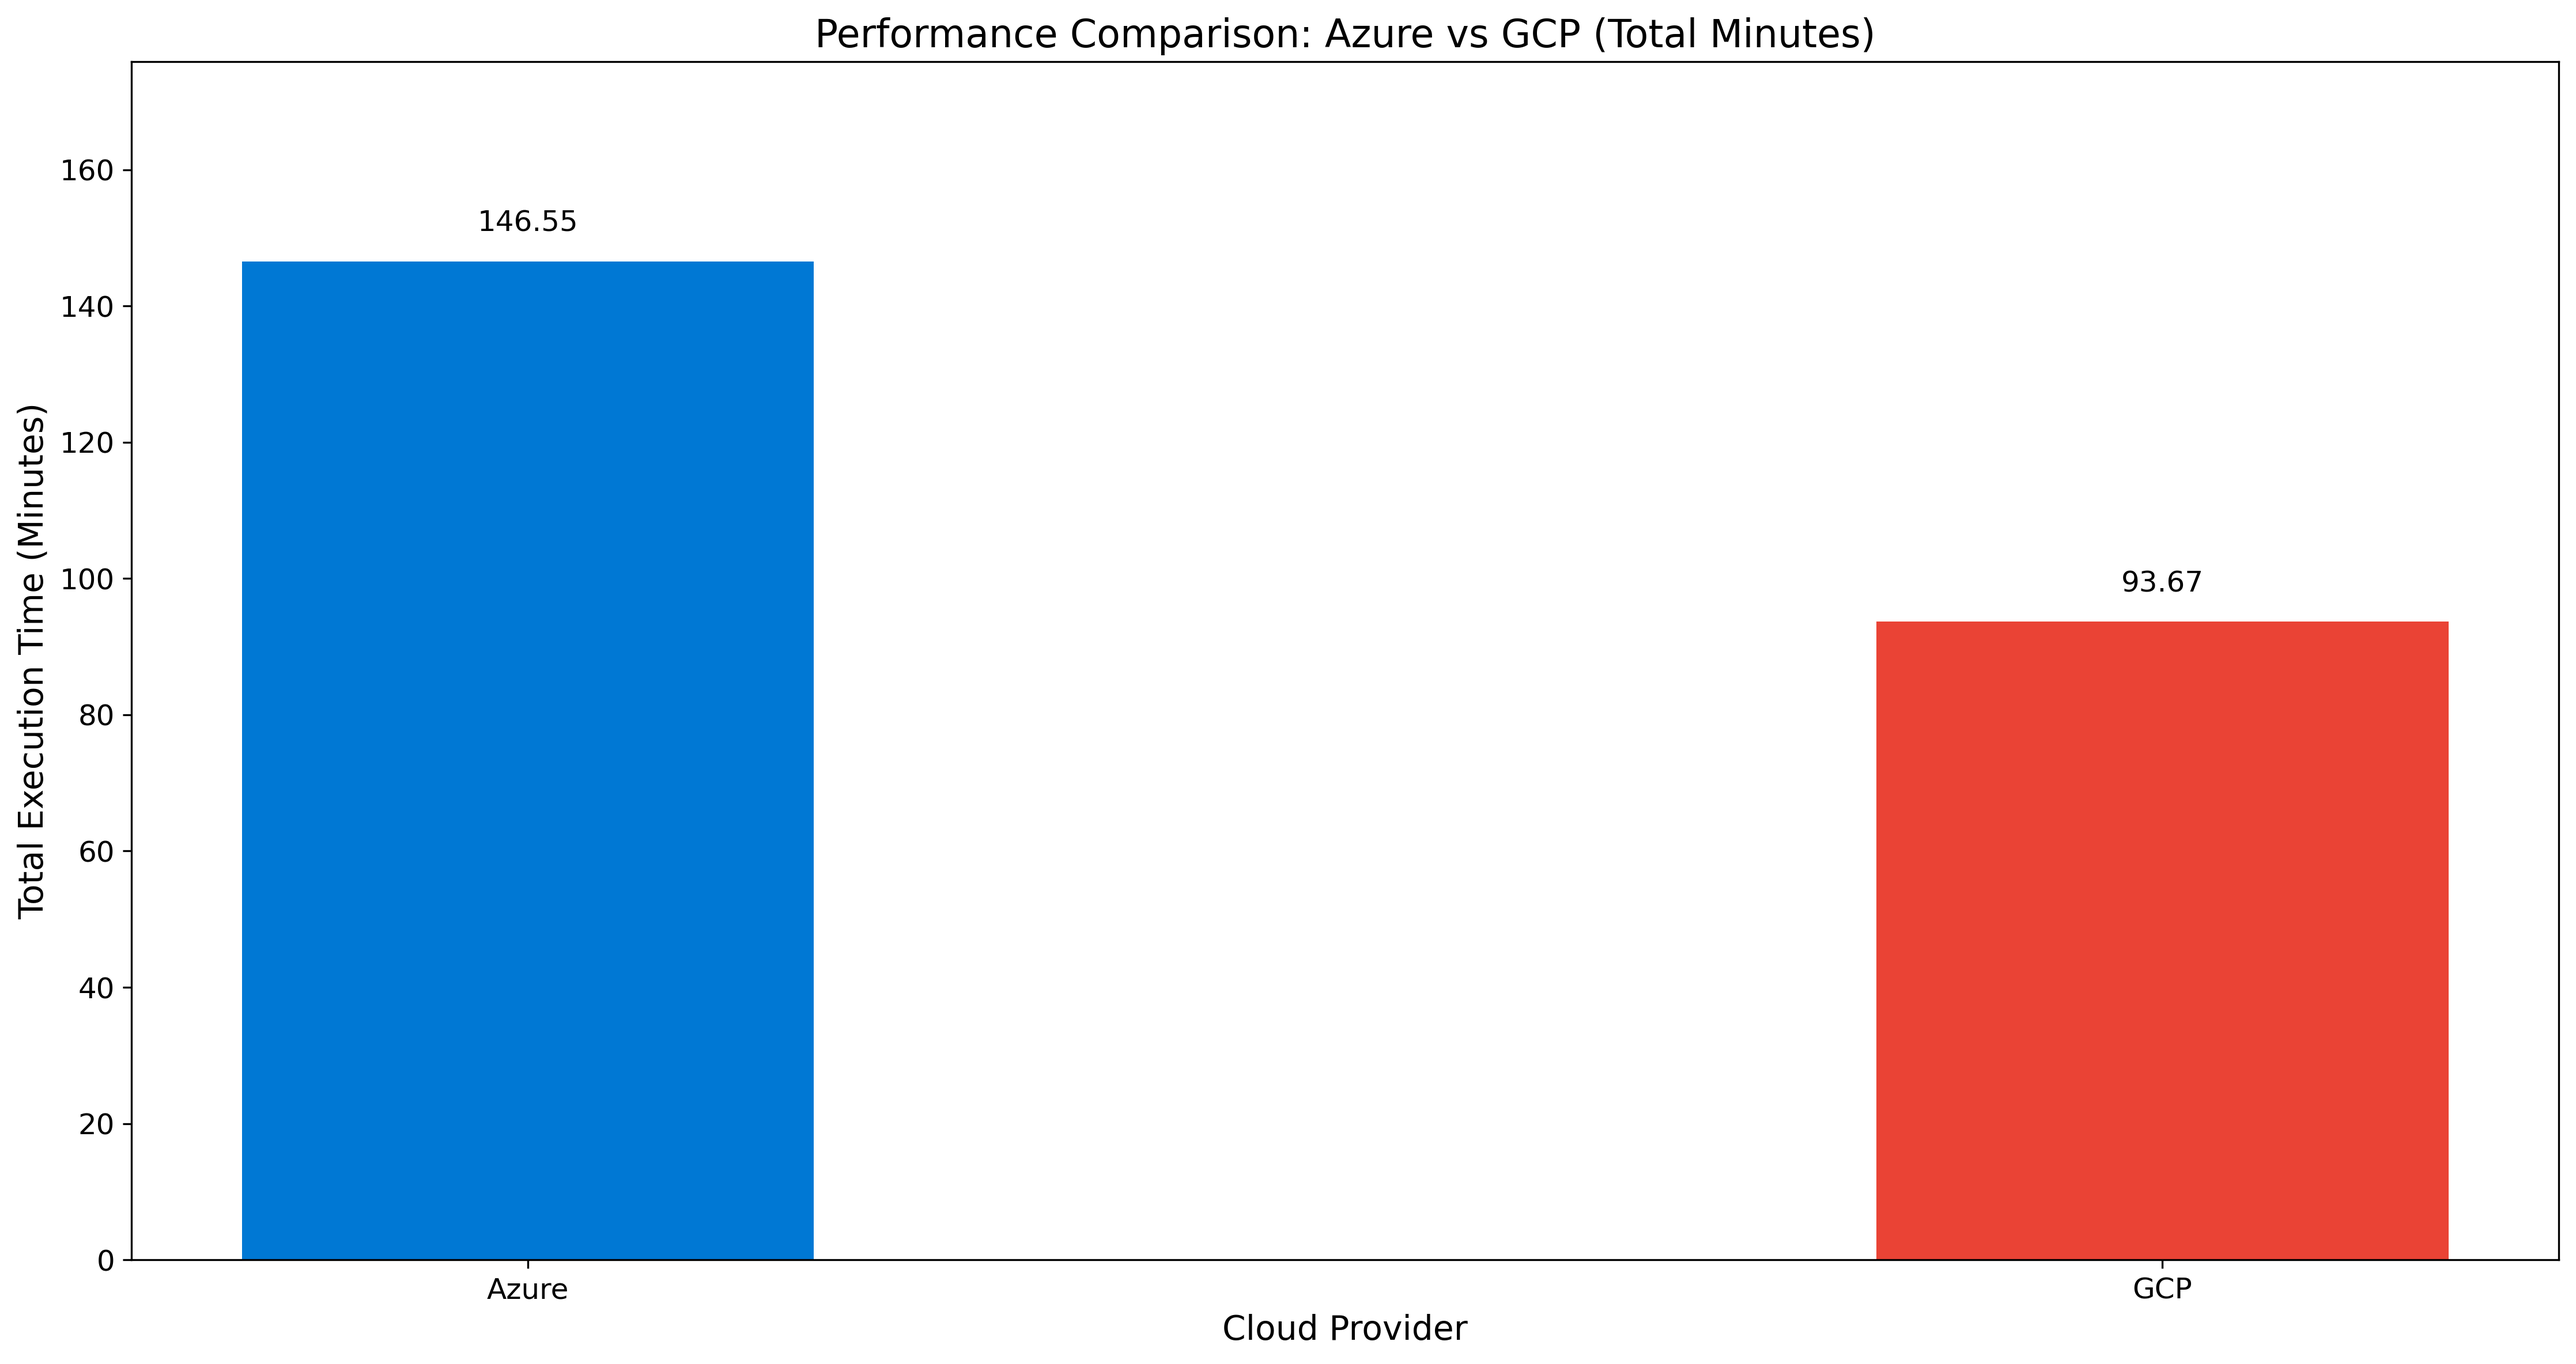
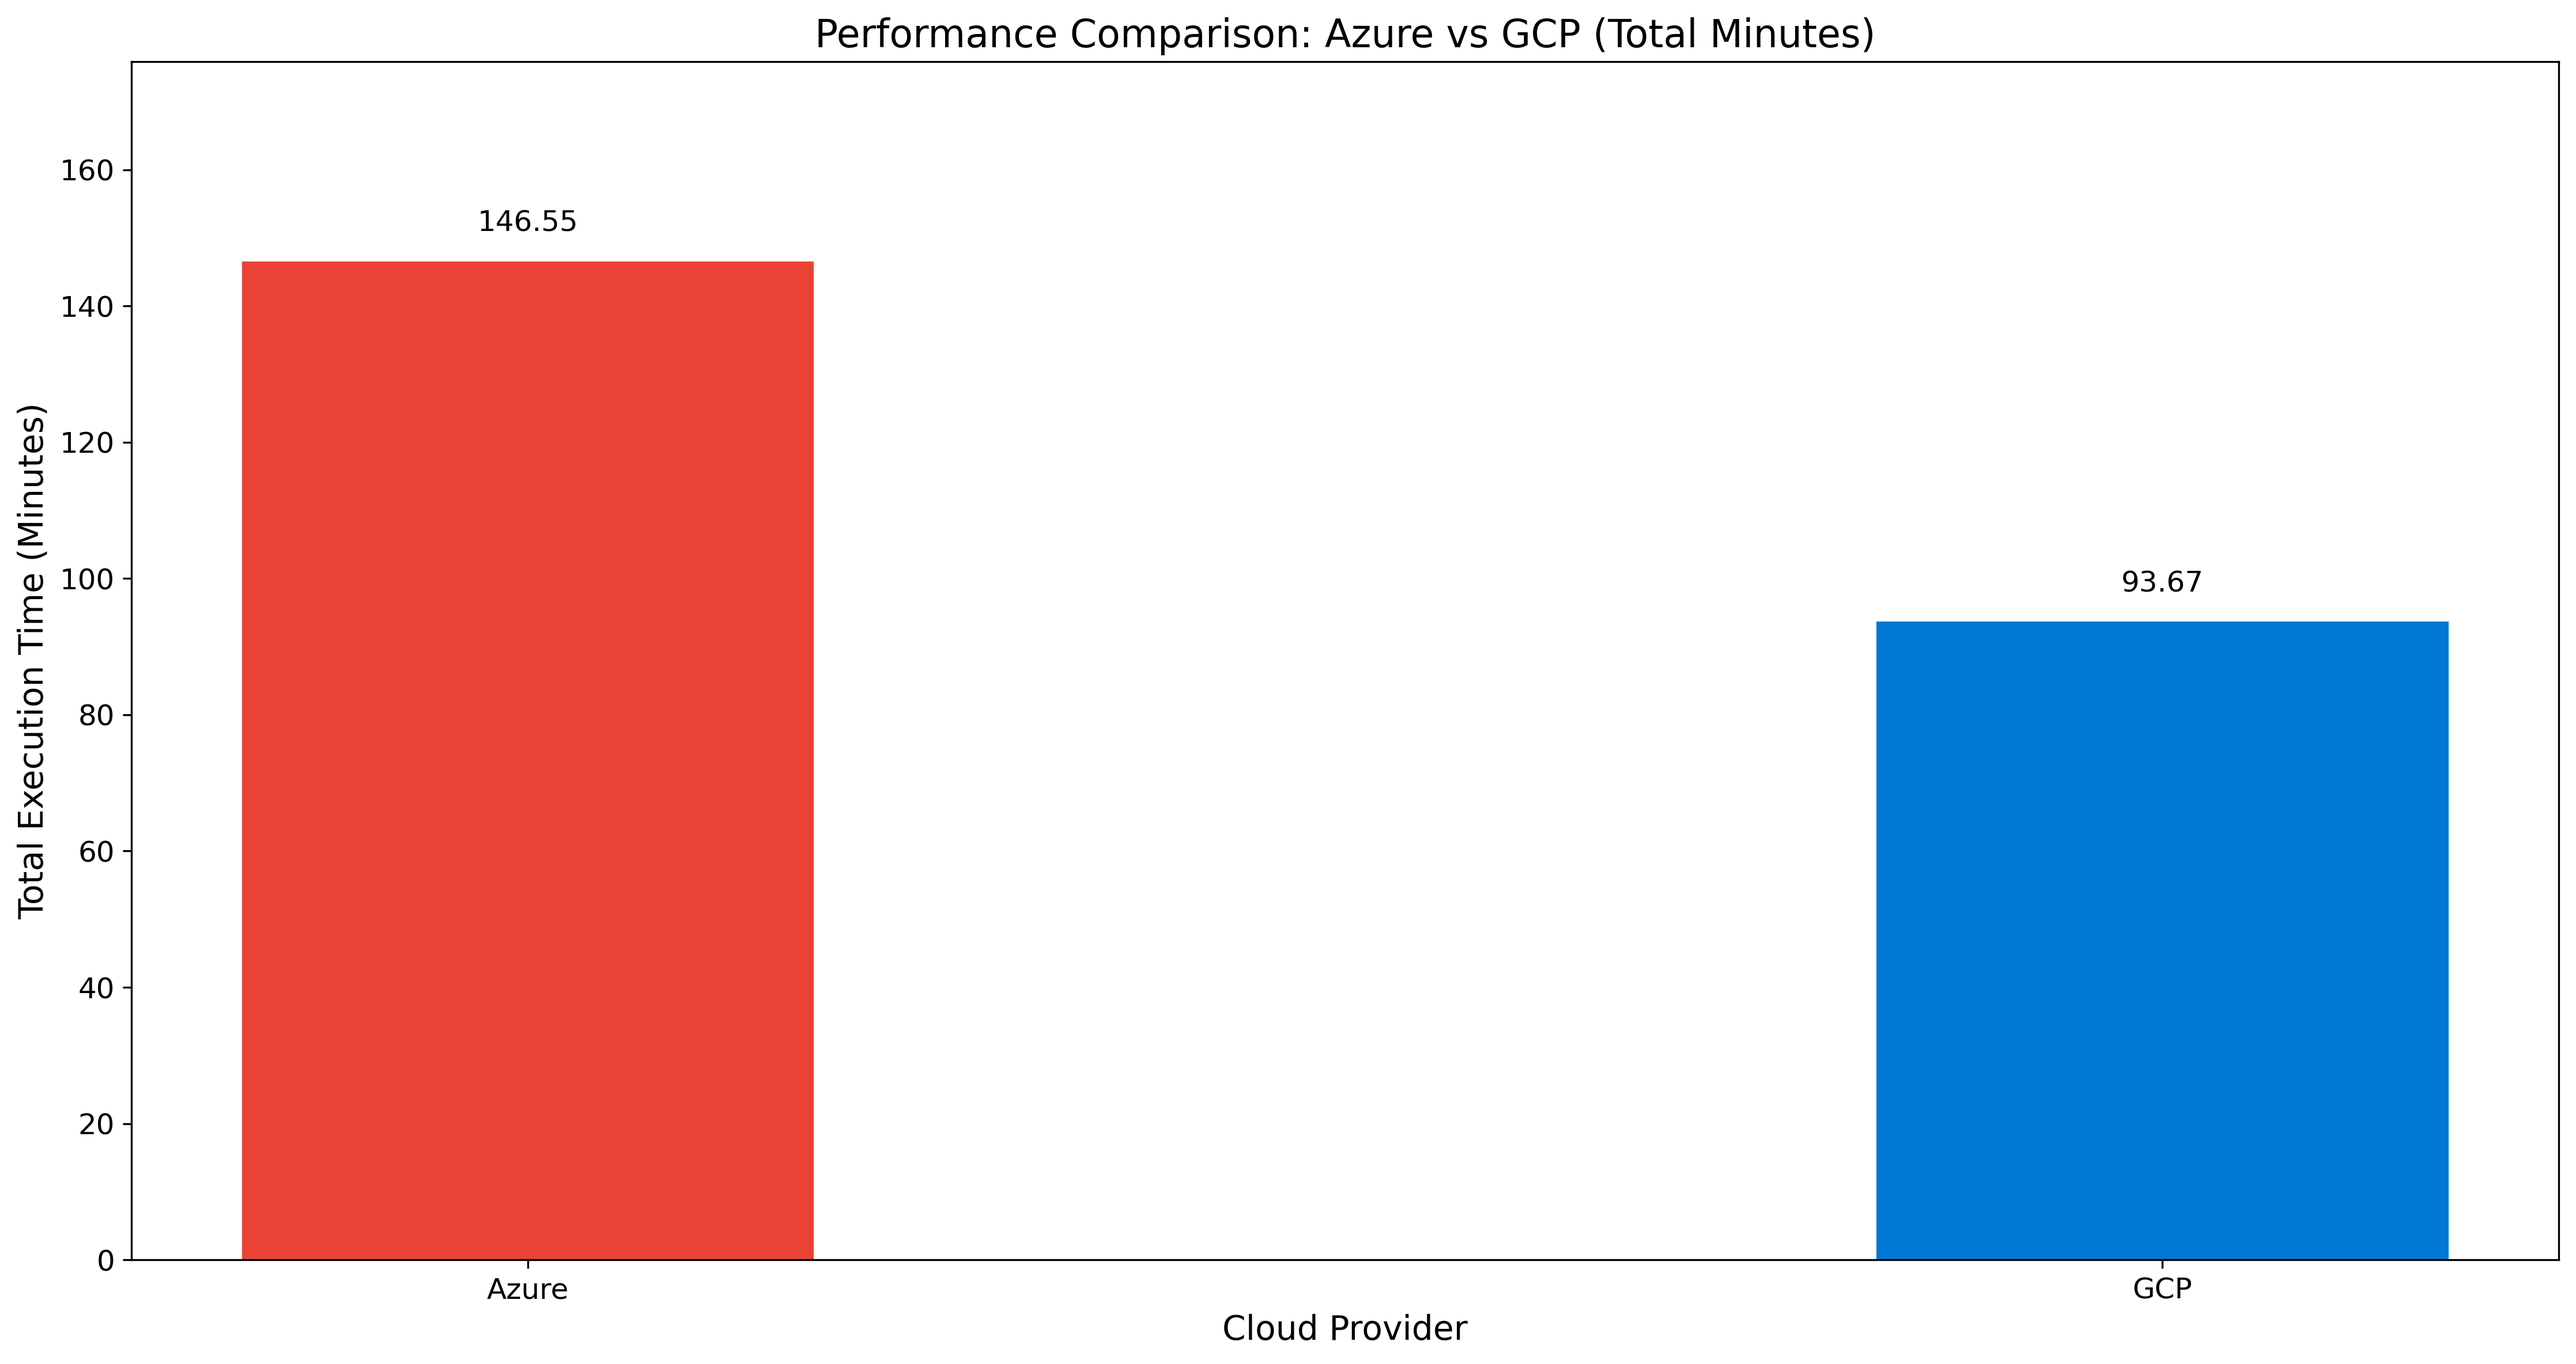
Update color labels for charts, regenerate image chart related

Changed region(s): [[0.0933, 0.1875, 0.3421, 0.9375], [0.7152, 0.4375, 0.964, 0.9375]]

diff --git a/scripts/create_cost_performance_charts.py b/scripts/create_cost_performance_charts.py
@@ -78,7 +78,7 @@ plt.figure(figsize=(20, 8))
 plt.subplot(1, 2, 1)
 labels_bigquery = ['Azure', 'GCP with BigQuery']
 sizes_bigquery = [azure_total_cost, gcp_total_cost]
-colors_bigquery = ['#0078D4', '#EA4335']  # Azure blue, Google red
+colors_bigquery = ['#EA4335', '#0078D4']  # Azure red, Google blue
 explode_bigquery = (0.1, 0)  # explode Azure slice
 
 plt.pie(sizes_bigquery, explode=explode_bigquery, labels=labels_bigquery, colors=colors_bigquery, 
@@ -91,7 +91,7 @@ plt.title('Cost Comparison: Azure vs GCP with BigQuery', fontsize=14)
 plt.subplot(1, 2, 2)
 labels_databricks = ['Azure', 'GCP with Databricks SQL']
 sizes_databricks = [azure_total_cost, gcp_total_databricks_cost]
-colors_databricks = ['#0078D4', '#DB4437']  # Azure blue, Google dark red
+colors_databricks = ['#EA4335', '#0078D4']  # Azure red, Google blue
 explode_databricks = (0.1, 0)  # explode Azure slice
 
 plt.pie(sizes_databricks, explode=explode_databricks, labels=labels_databricks, colors=colors_databricks, 
@@ -163,7 +163,7 @@ x = np.arange(len(perf_labels))
 width = 0.35
 
 # Use more distinct colors for better differentiation
-bar_colors = ['#0078D4', '#EA4335']  # Azure blue, Google red
+bar_colors = ['#EA4335', '#0078D4']  # Azure red, Google blue
 bars = plt.bar(x, [azure_total_time, gcp_total_time], width, color=bar_colors)
 plt.xlabel('Cloud Provider', fontsize=14)
 plt.ylabel('Total Execution Time (Minutes)', fontsize=14)
@@ -188,13 +188,13 @@ plt.figure(figsize=(12, 9))  # Increased height for more space
 x = np.arange(3)  # 3 operations
 width = 0.35
 
-# Azure bars - using a distinct blue
+# Azure bars - using a distinct red
 azure_bars = plt.bar(x - width/2, [azure_convert_time, azure_transform_time, azure_materialize_time], 
-                    width, label='Azure', color='#0078D4')
+                    width, label='Azure', color='#EA4335')
 
-# GCP bars - using Google red for better contrast
+# GCP bars - using Google blue for better contrast
 gcp_bars = plt.bar(x + width/2, [gcp_convert_time, gcp_transform_time, gcp_materialize_time], 
-                  width, label='GCP', color='#EA4335')
+                  width, label='GCP', color='#0078D4')
 
 plt.xlabel('Processing Step', fontsize=14)
 plt.ylabel('Execution Time (Minutes)', fontsize=14)
@@ -224,13 +224,13 @@ plt.figure(figsize=(10, 7))  # Increased height for more space
 x = np.arange(2)  # 2 operations (transform and materialize)
 width = 0.35
 
-# Azure bars - using a distinct blue
+# Azure bars - using a distinct red
 azure_bars = plt.bar(x - width/2, [azure_transform_time, azure_materialize_time], 
-                    width, label='Azure', color='#0078D4')
+                    width, label='Azure', color='#EA4335')
 
-# GCP bars - using Google red for better contrast
+# GCP bars - using Google blue for better contrast
 gcp_bars = plt.bar(x + width/2, [gcp_transform_time, gcp_materialize_time], 
-                  width, label='GCP', color='#EA4335')
+                  width, label='GCP', color='#0078D4')
 
 plt.xlabel('Processing Step', fontsize=14)
 plt.ylabel('Execution Time (Minutes)', fontsize=14)
